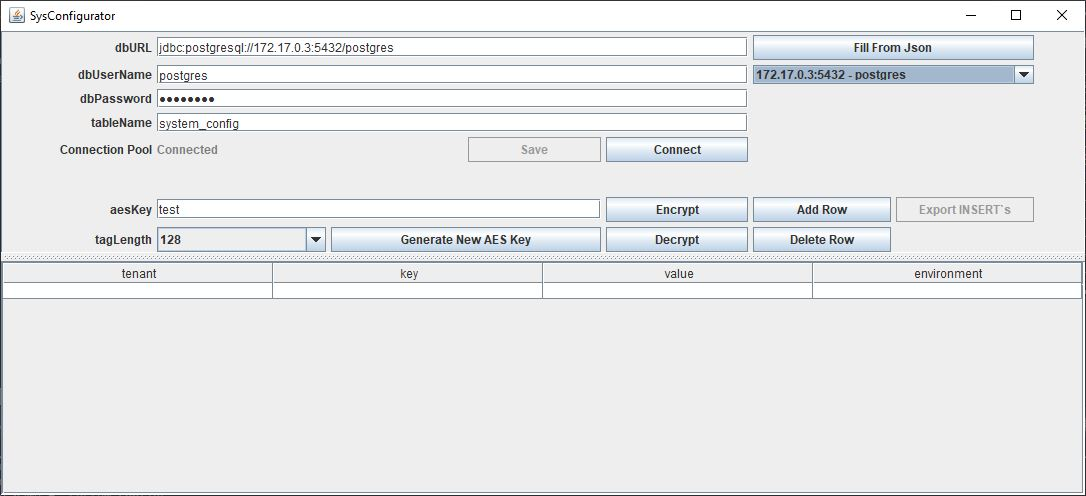
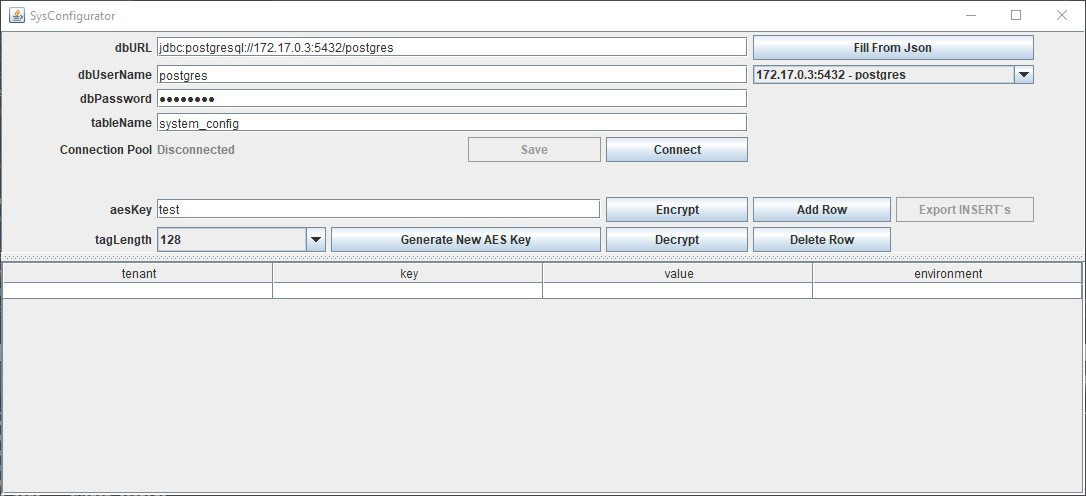
Updated screenshot. Added additional instructions to readme

diff --git a/src/main/java/io/kvineet/sysconfigurator/AppWindow.java b/src/main/java/io/kvineet/sysconfigurator/AppWindow.java
@@ -444,7 +444,7 @@ public class AppWindow {
 				
 				btnSave.setEnabled(connected);
 				btnExportInserts.setEnabled(connected);
-				lblConnectionStatusValue.setText(connected ? Constants.CONNECTED : Constants.CONNECTED);
+				lblConnectionStatusValue.setText(connected ? Constants.CONNECTED : Constants.DISCONNECTED);
 				lblConnectionStatusValue.setForeground(connected ? Color.GREEN : Color.GRAY);
 			}
 

diff --git a/readme.md b/readme.md
@@ -11,8 +11,8 @@ The queries that retrieve primary keys for table are hard-coded for PostgreSQL, 
 
 ### Important note for recent configurations
 
-- While making jar executable, make sure to add write permissions.  
-- Allow saving recent configurations within same directory in file named `sysconfigurator.cfg`.
+- While making jar executable, make sure to add write permissions. Use 'chmod +xw ./sysconfigurator.jar'
+- It will allow saving recent configurations within same directory within file named `sysconfigurator.cfg`.
 
 ### JSON Input  
 
